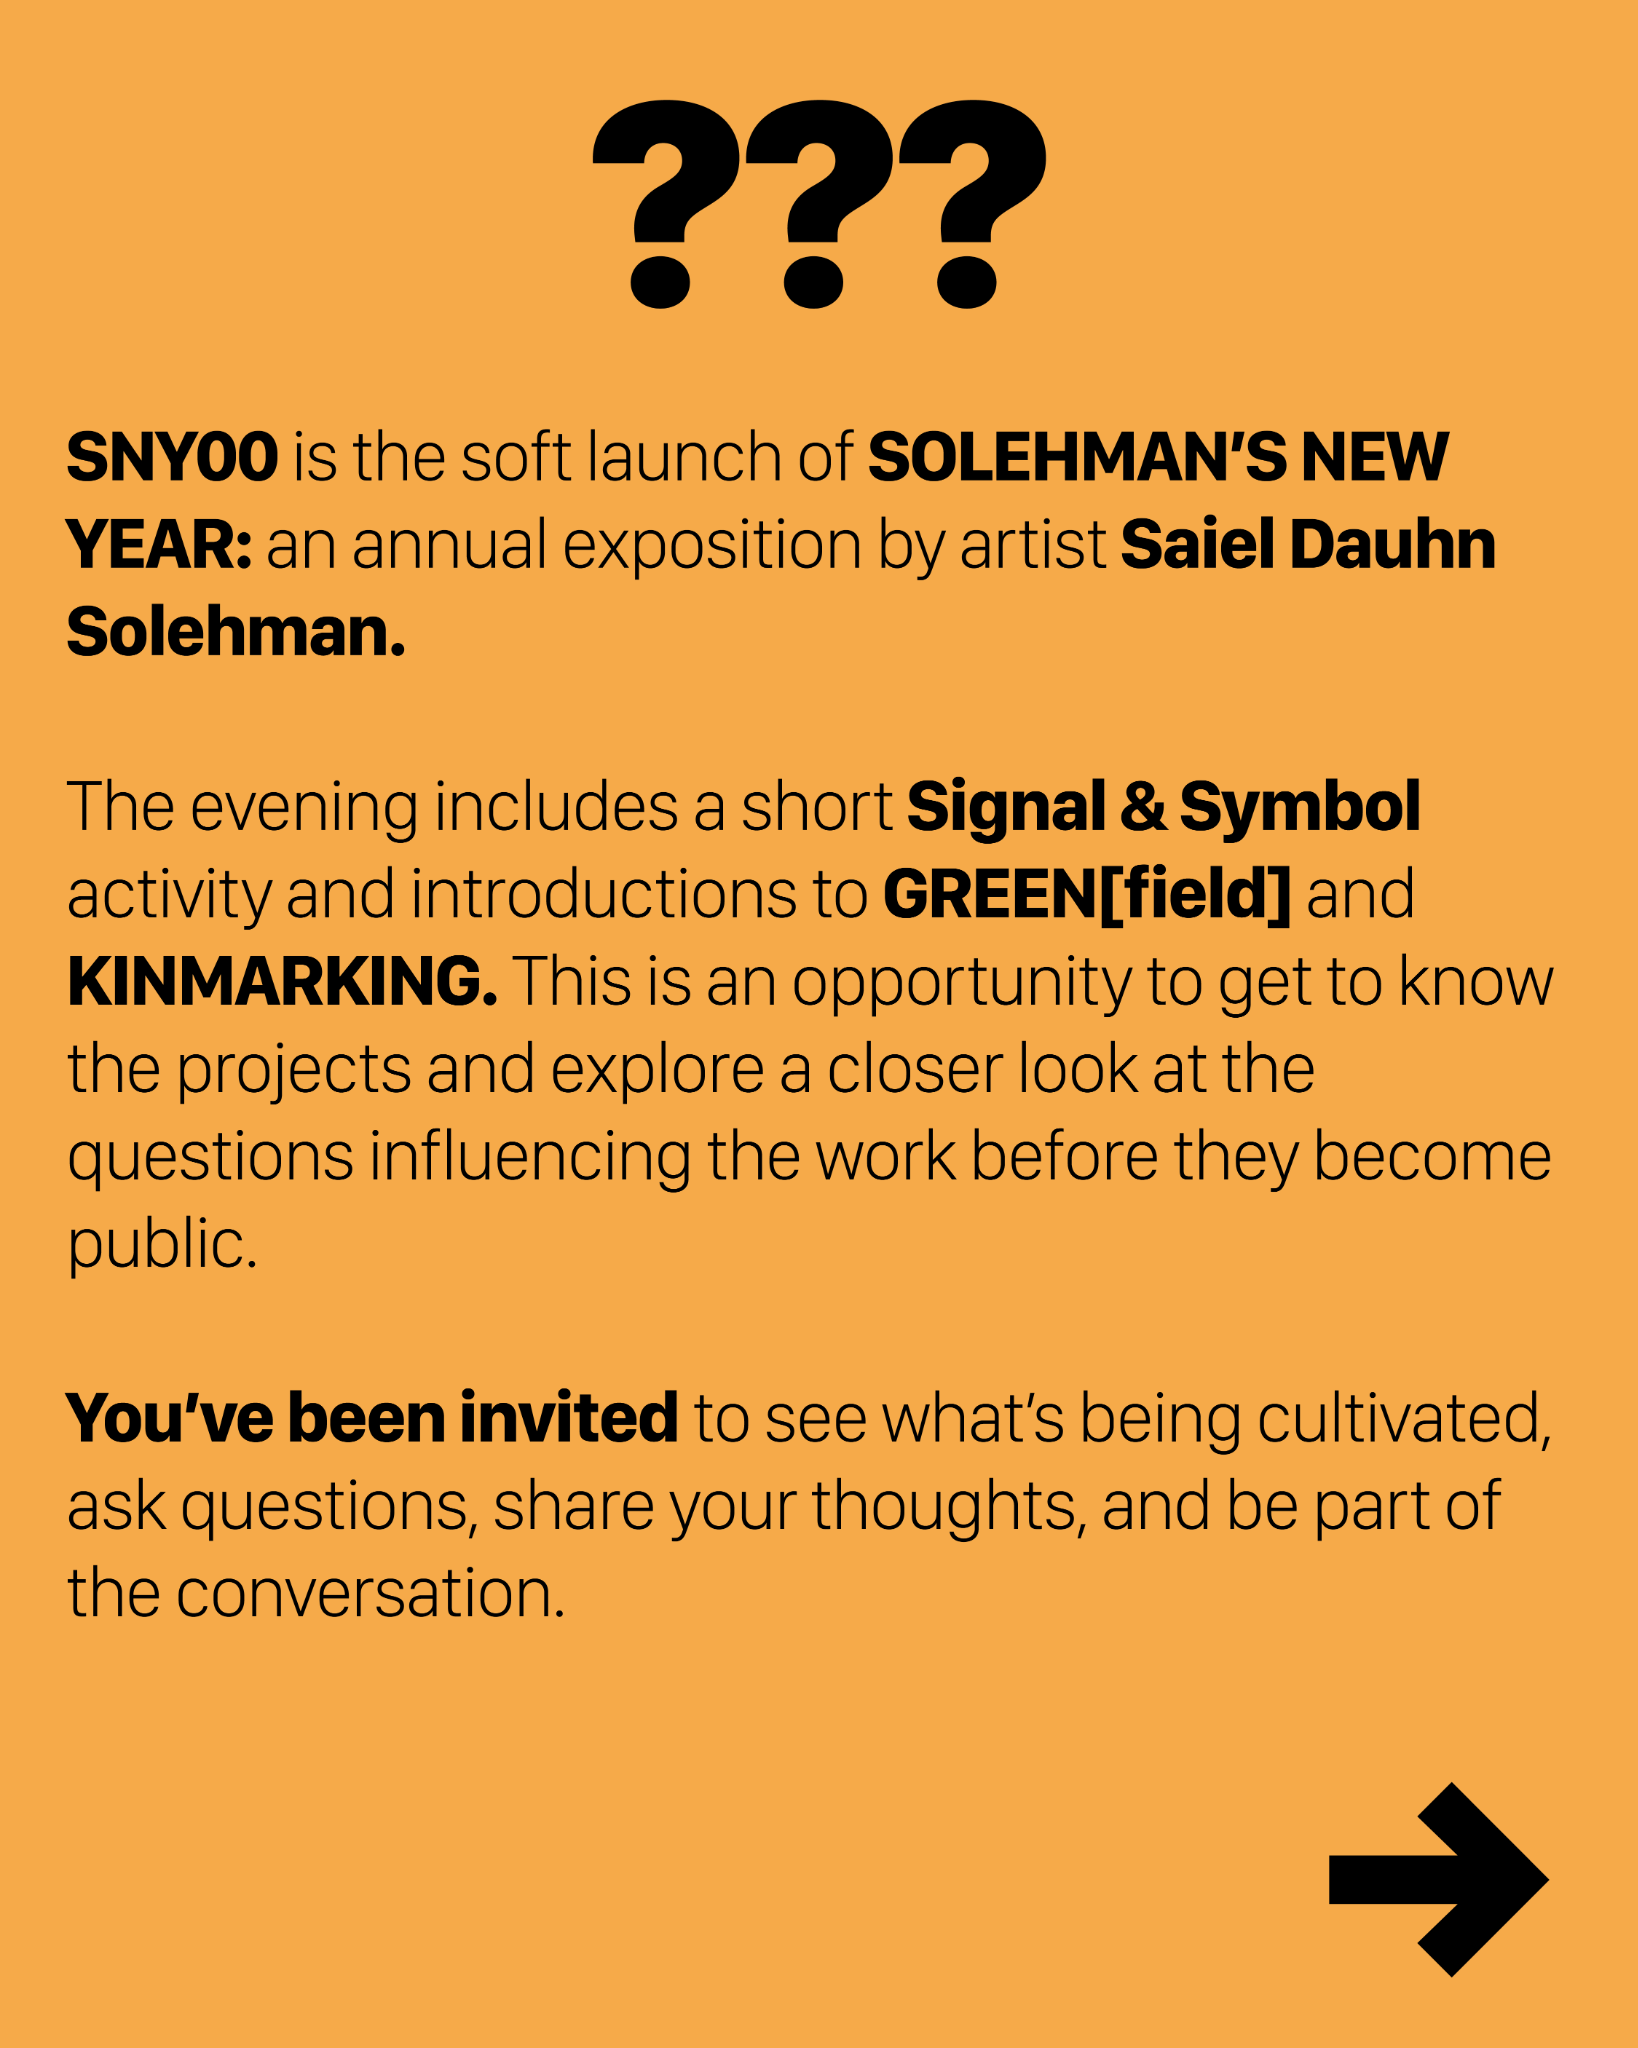
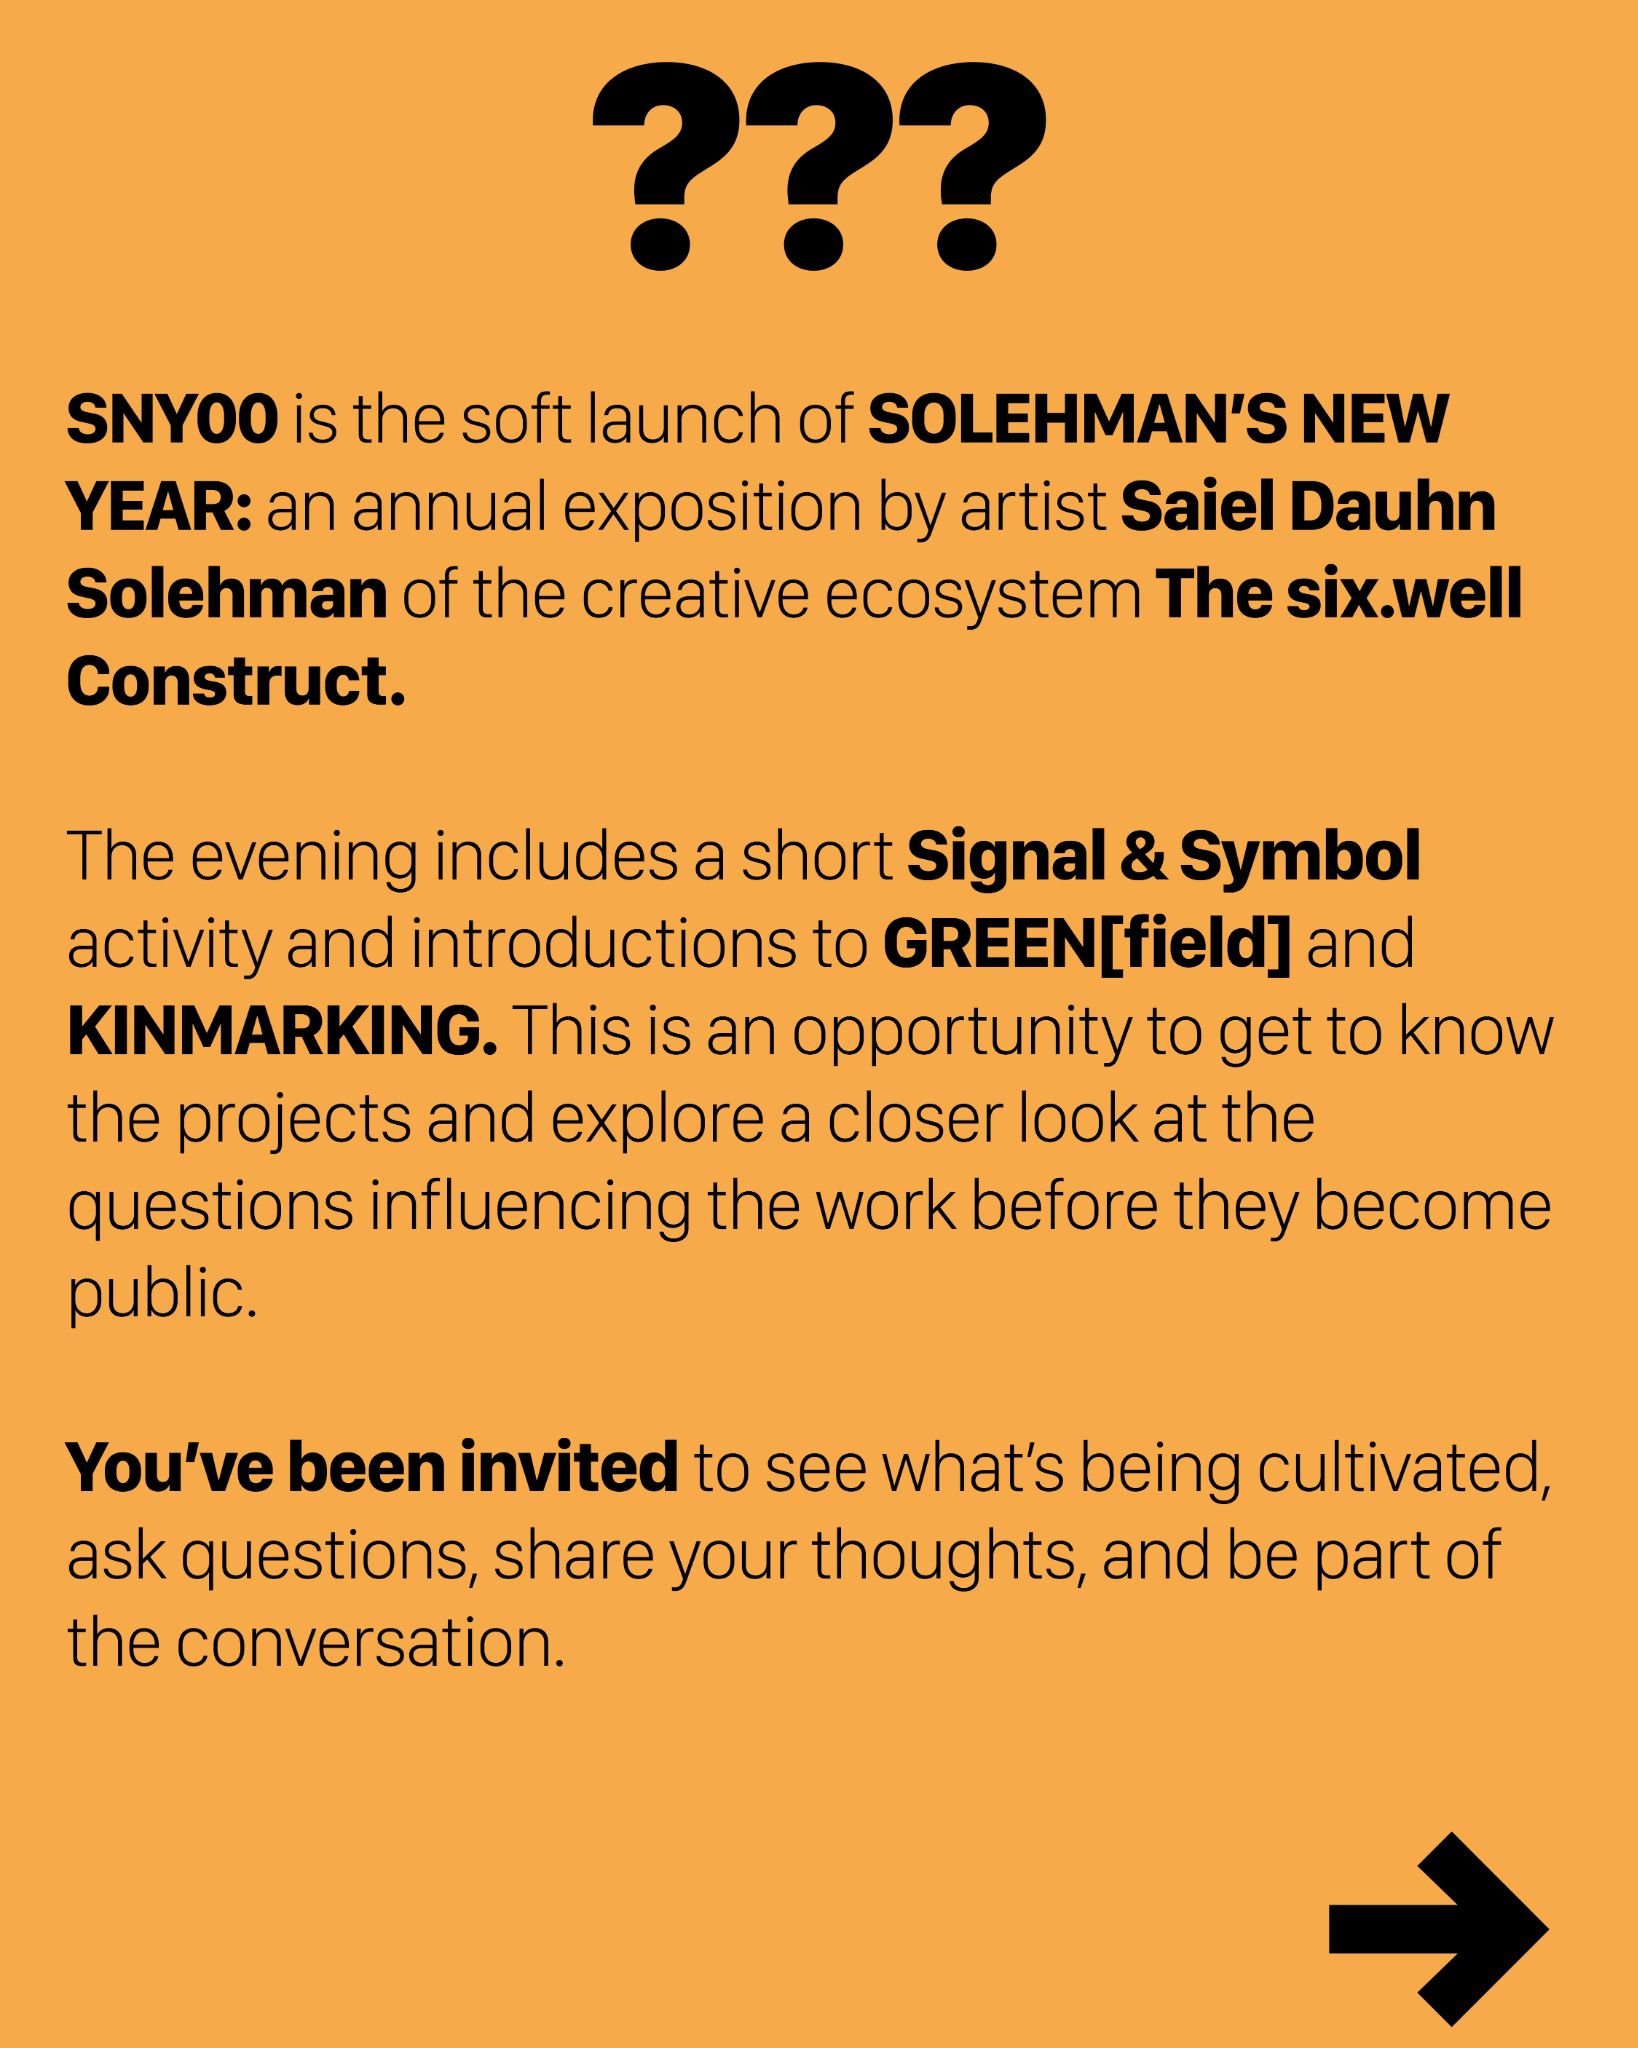
Replace SNY00 flyer 04 with corrected artwork

diff --git a/events/sny-00/index.html b/events/sny-00/index.html
@@ -43,7 +43,7 @@
       <li><figure class="sny-flyer"><a href="/assets/events/sny-00/sny00-flyer-01.png"><img src="/assets/events/sny-00/sny00-flyer-01.png" alt="SNY00 emblem: a gold 00 inside a brown ring, with eight spokes ending in colored circles on black." width="1638" height="2048" loading="lazy" decoding="async"><span class="sny-flyer-caption"><span>01 / 07</span><span>View full size</span></span></a></figure></li>
       <li><figure class="sny-flyer"><a href="/assets/events/sny-00/sny00-flyer-02.png"><img src="/assets/events/sny-00/sny00-flyer-02.png" alt="Solehman’s New Year :00 — soft launch + gathering. Gold and cream lettering on black." width="1638" height="2048" loading="lazy" decoding="async"><span class="sny-flyer-caption"><span>02 / 07</span><span>View full size</span></span></a></figure></li>
       <li><figure class="sny-flyer"><a href="/assets/events/sny-00/sny00-flyer-03.png"><img src="/assets/events/sny-00/sny00-flyer-03.png" alt="The Six.Well Construct presents SNY00. November 6, 2026, 7–9 p.m., at 364 Nelson Street SW. Gold outlines of an abstract gathering with colorful circles." width="1638" height="2048" loading="lazy" decoding="async"><span class="sny-flyer-caption"><span>03 / 07</span><span>View full size</span></span></a></figure></li>
-      <li><figure class="sny-flyer"><a href="/assets/events/sny-00/sny00-flyer-04.png"><img src="/assets/events/sny-00/sny00-flyer-04.png" alt="An introduction to SNY00, the soft launch of Solehman’s New Year by Saiel Dauhn Solehman. Complete flyer text follows the gallery." width="1638" height="2048" loading="lazy" decoding="async"><span class="sny-flyer-caption"><span>04 / 07</span><span>View full size</span></span></a></figure></li>
+      <li><figure class="sny-flyer"><a href="/assets/events/sny-00/sny00-flyer-04.png?v=7a965bfdf68d"><img src="/assets/events/sny-00/sny00-flyer-04.png?v=7a965bfdf68d" alt="An introduction to SNY00, the soft launch of Solehman’s New Year by Saiel Dauhn Solehman of the creative ecosystem The six.well Construct. Complete flyer text follows the gallery." width="1638" height="2048" loading="lazy" decoding="async"><span class="sny-flyer-caption"><span>04 / 07</span><span>View full size</span></span></a></figure></li>
       <li><figure class="sny-flyer"><a href="/assets/events/sny-00/sny00-flyer-05.png"><img src="/assets/events/sny-00/sny00-flyer-05.png" alt="KINMARKING 00, Signal &amp; Symbol 00, and GREEN[field] 00, with red, blue, and green headings on orange. Complete flyer text follows the gallery." width="1638" height="2048" loading="lazy" decoding="async"><span class="sny-flyer-caption"><span>05 / 07</span><span>View full size</span></span></a></figure></li>
       <li><figure class="sny-flyer"><a href="/assets/events/sny-00/sny00-flyer-06.png"><img src="/assets/events/sny-00/sny00-flyer-06.png" alt="This gathering will be documented by Tyrone Hawk. A black eye symbol above an abstract gathering on orange." width="1638" height="2048" loading="lazy" decoding="async"><span class="sny-flyer-caption"><span>06 / 07</span><span>View full size</span></span></a></figure></li>
       <li><figure class="sny-flyer"><a href="/assets/events/sny-00/sny00-flyer-07.png"><img src="/assets/events/sny-00/sny00-flyer-07.png" alt="Gold outlines of an abstract gathering beneath a circle containing six dots, on black." width="1638" height="2048" loading="lazy" decoding="async"><span class="sny-flyer-caption"><span>07 / 07</span><span>View full size</span></span></a></figure></li>
@@ -55,7 +55,7 @@
         <p>Soft launch + gathering.</p>
         <p>The Six.Well Construct presents SNY00.<br>November 6, 2026 · 7–9 p.m.<br>364 Nelson Street SW.</p>
         <h3>???</h3>
-        <p>SNY00 is the soft launch of SOLEHMAN’S NEW YEAR: an annual exposition by artist Saiel Dauhn Solehman.</p>
+        <p>SNY00 is the soft launch of SOLEHMAN’S NEW YEAR: an annual exposition by artist Saiel Dauhn Solehman of the creative ecosystem The six.well Construct.</p>
         <p>The evening includes a short Signal &amp; Symbol activity and introductions to GREEN[field] and KINMARKING. This is an opportunity to get to know the projects and explore a closer look at the questions influencing the work before they become public.</p>
         <p>You’ve been invited to see what’s being cultivated, ask questions, share your thoughts, and be part of the conversation.</p>
         <h3>KINMARKING 00</h3>
